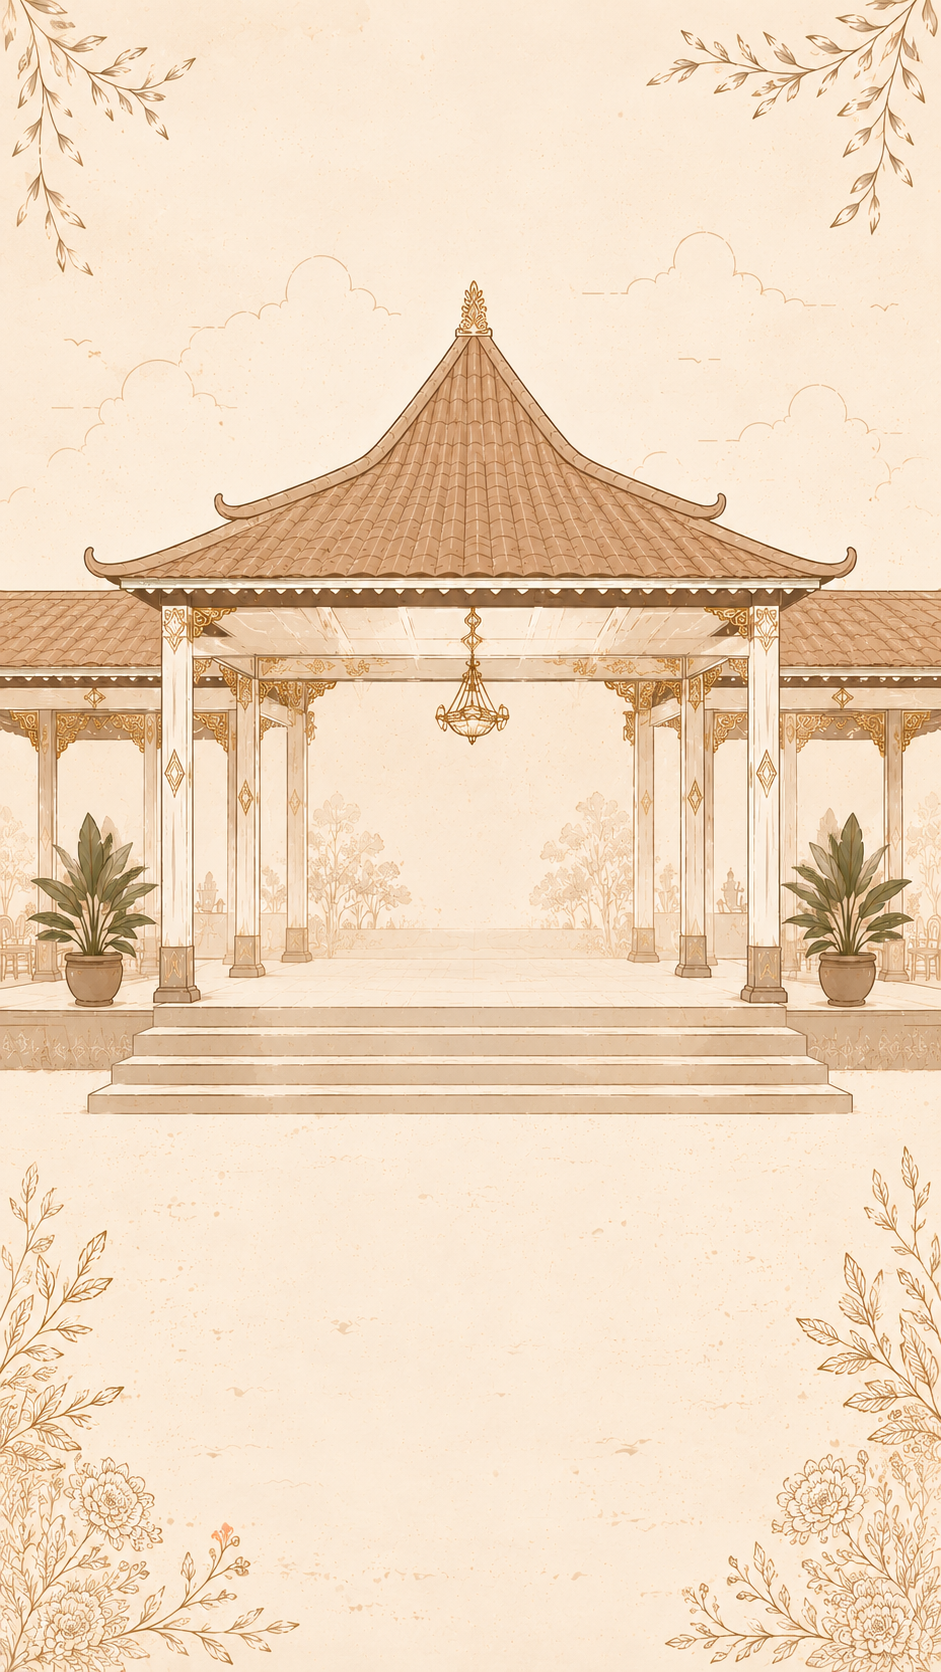
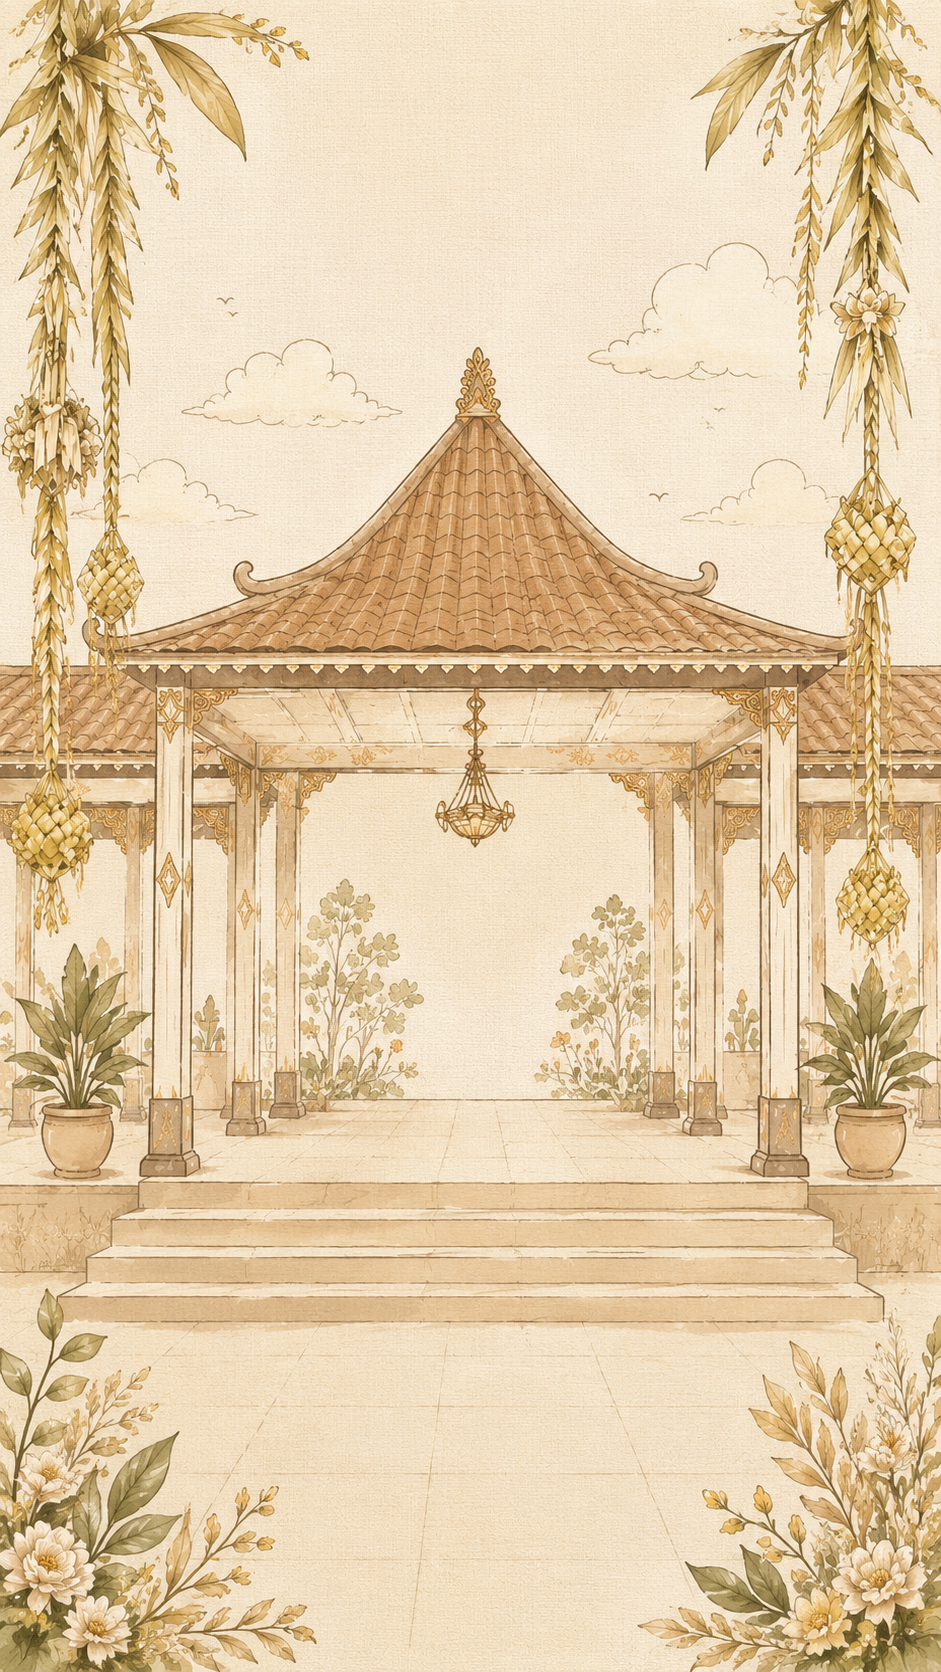
feat: update hero section with Islamic greeting and adjust gallery image sizes
- Replace 'the wedding of' with Bismillah, salam, and invitation text
- Center-align hero label and adjust font size/spacing for readability
- Reduce gallery image max-width to 340px (desktop) and 240px (mobile)

diff --git a/index.html b/index.html
@@ -44,7 +44,14 @@
     <!-- Hero Section -->
     <section id="hero" class="section section-hero">
       <div class="hero-content">
-        <p class="hero-label">the wedding of</p>
+        <p class="hero-label">
+          بِسْمِ اللَّهِ الرَّحْمَٰنِ الرَّحِيمِ<br>
+          السَّلاَمُ عَلَيْكُمْ وَرَحْمَةُ اللهِ وَبَرَكَاتُهُ<br>
+          Dengan memohon rahmat<br> Allah
+          سُبْحَانَهُ وَتَعَالَى <br>
+          dan penuh rasa hormat, kami mengundang Bapak/Ibu/Saudara/i<br>
+          untuk hadir pada acara pernikahan putra dan putri kami:
+        </p>
         <h2 class="hero-names">Vivit & Iwan</h2>
       </div>
     </section>
@@ -65,7 +72,7 @@
             <img src="./images/hery-iswanto.png" alt="Hery Iswanto" class="gallery-image">
             <div class="gallery-caption">
               <p class="gallery-caption-text">Hery Iswanto</p>
-              <p class="gallery-caption-label">Putra dari</p>
+              <p class="gallery-caption-label">Putra ke-2 dari</p>
               <p class="gallery-caption-text">(Alm) Bapak Sartono dan Ibu Rusmini</p>
             </div>
           </div>
@@ -73,7 +80,7 @@
             <img src="./images/kurniavita-sasongko.png" alt="Kurniavita Sasongko" class="gallery-image">
             <div class="gallery-caption">
               <p class="gallery-caption-text">Kurniavita Sasongko</p>
-              <p class="gallery-caption-label">Putri dari</p>
+              <p class="gallery-caption-label">Putri ke-2 dari</p>
               <p class="gallery-caption-text">Bapak Yuni Sasongko dan Ibu Mahirta</p>
             </div>
           </div>
@@ -226,8 +233,8 @@
       <div class="container">
         <div class="footer-divider"></div>
         <p class="footer-names">Terima kasih</p>
-        <p class="footer-thanks">Merupakan suatu kehormatan apabila<br>Bapak/Ibu/Saudara/i berkenan hadir untuk<br>memberikan doa restu kepada kami</p>
-        <h3 class="footer-names">Vivit & Iwan</h3>
+        <p class="footer-thanks">وَعَلَيْكُمُ السَّلاَمُ وَرَحْمَةُ اللهِ وَبَرَكَاتُهُ</p>
+        <h3 class="footer-names-bottom">Bapak Yuni Sasongko dan Ibu Mahirta & (Alm) Bapak Sartono dan Ibu Rusmini</h3>
         <div class="footer-line"></div>
       </div>
     </footer>

diff --git a/styles/sections.css b/styles/sections.css
@@ -109,12 +109,17 @@
 
 .hero-label {
   font-family: var(--font-couple);
-  font-size: 1.5rem;
+  font-size: 1.15rem;
   font-weight: 400;
-  font-style: italic;
+  font-style: normal;
   color: var(--warm-gray);
-  letter-spacing: 1px;
-  margin-bottom: 12px;
+  letter-spacing: 0.5px;
+  margin-bottom: 24px;
+  line-height: 1.9;
+  text-align: center;
+  max-width: 500px;
+  margin-left: auto;
+  margin-right: auto;
 }
 
 .hero-names {
@@ -373,7 +378,7 @@
 
 .gallery-image {
   width: 100%;
-  max-width: 400px;
+  max-width: 340px;
   margin: 0 auto;
   display: block;
 }
@@ -545,13 +550,21 @@
 
 .footer-thanks {
   color: var(--cream-white);
-  font-size: 1rem;
+  font-size: 2rem;
   margin-bottom: 12px;
 }
 
 .footer-names {
   font-family: var(--font-couple);
   font-size: 2rem;
+  font-weight: 500;
+  color: var(--rose-quartz);
+  margin-bottom: 24px;
+}
+
+.footer-names-bottom {
+  font-family: var(--font-couple);
+  font-size: 1.2rem;
   font-weight: 500;
   color: var(--rose-quartz);
   margin-bottom: 24px;

diff --git a/styles/responsive.css b/styles/responsive.css
@@ -20,6 +20,10 @@
     font-size: 3rem;
   }
 
+  .gallery-image {
+    max-width: 240px;
+  }
+
   .countdown-timer {
     gap: 10px;
   }
